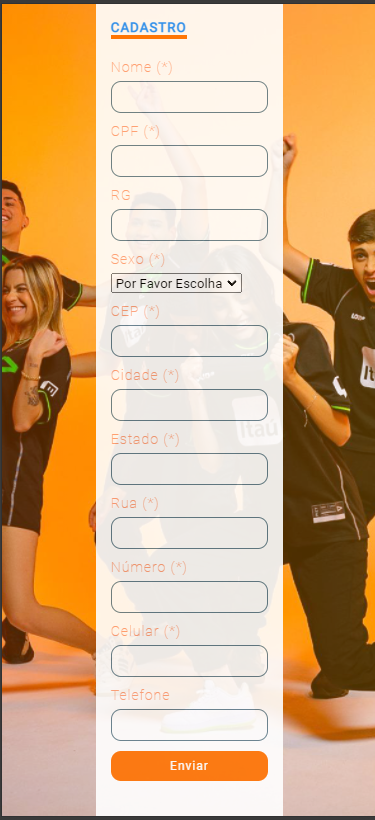
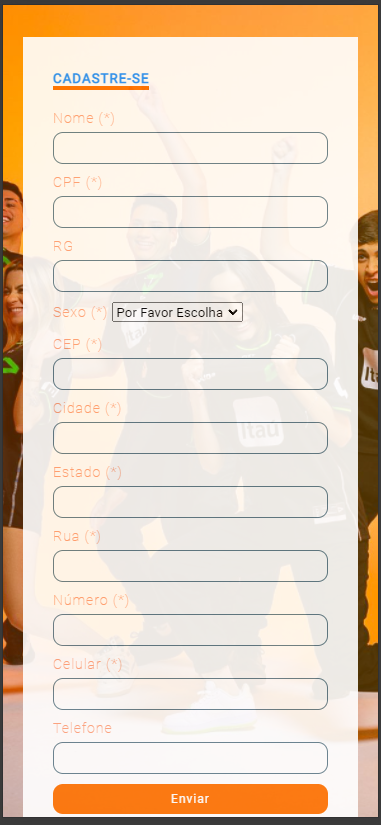
atualizei o readme

diff --git a/css/estilo.css b/css/estilo.css
@@ -157,9 +157,15 @@ section .contentBx .formBx .inputBx input[type='submit']:hover{
         margin-bottom: 2rem;
 
     }
+
+    body{
+        font-size: smaller;
+    }
+
     section  h2{
        
-        margin-top: 2rem;
+        margin-top: 3px;
+        margin-bottom: 2px;
 
     }
 
@@ -184,7 +190,8 @@ section .contentBx .formBx .inputBx input[type='submit']:hover{
         width: 100%;
         height: 100%;
         z-index: 1;
-      
+        top: 0;
+       
         
 
     }
@@ -197,17 +204,27 @@ section .contentBx .formBx .inputBx input[type='submit']:hover{
         padding: 12px;
         background: rgb(255,255, 255  );
         opacity: 0.9;
+        top: 0;
     
     }
     
     section .contentBx .formBx .inputBx input{
         
         padding: 8px 16px;
+       
     }
   
 
     body{
         font-size: smaller;
+    }
+
+    
+    section  h2{
+       
+        margin-top: 3px;
+        margin-bottom: 2px;
+
     }
 }
 
